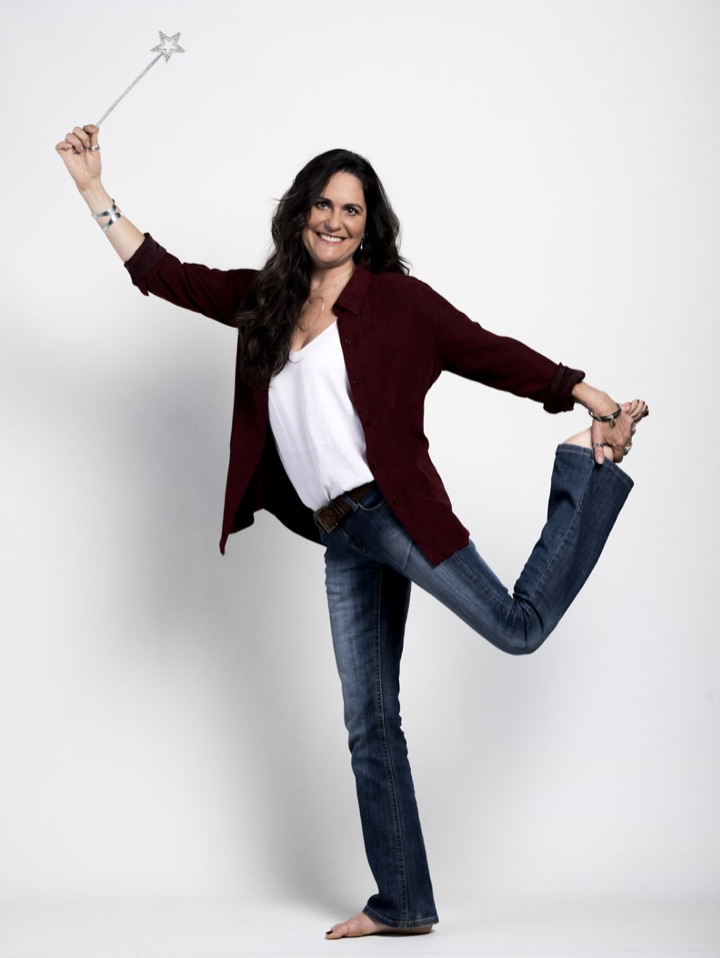
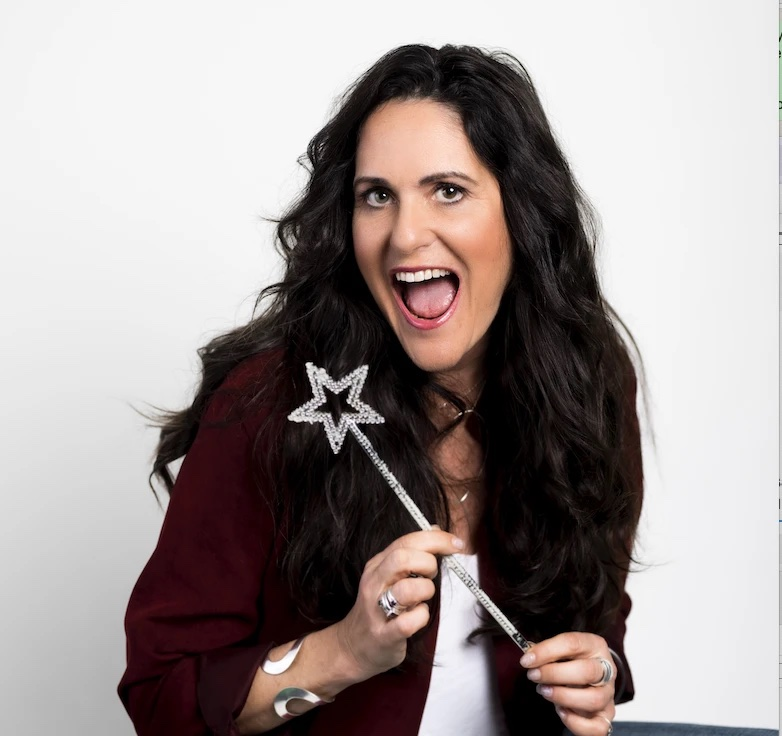
New wand headshot and redrawn silhouettes on the About page
Silhouettes now show distinct hair and face outlines: curly hair
(speaker, blue), short quiff (organiser, purple) and a high bun with
hoops (fund builder, green).

diff --git a/about.html b/about.html
@@ -58,7 +58,7 @@
         <div class="people">
           <article class="person person-founder">
             <div class="person-photo">
-              <img src="assets/img/julie-trell.jpg" alt="Julie Trell smiling, holding a star wand in the air and balancing on one leg" width="720" height="958" loading="lazy">
+              <img src="assets/img/julie-trell.jpg" alt="Julie Trell laughing and holding a sparkly star wand" width="782" height="736" loading="lazy">
             </div>
             <div class="person-body">
               <p class="person-role">Founder and chief wand-waver</p>
@@ -69,11 +69,24 @@
 
           <article class="person person-open person-speaker">
             <div class="person-photo" aria-hidden="true">
-              <!-- Woman with long hair -->
+              <!-- Woman with big curly hair -->
               <svg viewBox="0 0 300 400" focusable="false">
-                <path d="M150 62C82 62 72 120 76 175c3 40-6 70-14 105h176c-8-35-17-65-14-105 4-55-6-113-74-113z"/>
-                <circle cx="150" cy="135" r="60"/>
-                <path d="M126 188h48v52c58 12 94 52 98 160H28c4-108 40-148 98-160z"/>
+                <path d="M128 215h44v53c2 14 10 20 23 23 43 9 77 37 79 109H26c2-72 36-100 79-109 13-3 21-9 23-23z"/>
+                <g>
+                  <circle cx="150" cy="80" r="40"/>
+                  <circle cx="112" cy="90" r="36"/>
+                  <circle cx="188" cy="90" r="36"/>
+                  <circle cx="84" cy="122" r="34"/>
+                  <circle cx="216" cy="122" r="34"/>
+                  <circle cx="72" cy="160" r="32"/>
+                  <circle cx="228" cy="160" r="32"/>
+                  <circle cx="74" cy="198" r="30"/>
+                  <circle cx="226" cy="198" r="30"/>
+                  <circle cx="86" cy="232" r="26"/>
+                  <circle cx="214" cy="232" r="26"/>
+                </g>
+                <path d="M150 100c35 0 56 26 55 60-1 46-25 85-55 85s-54-39-55-85c-1-34 20-60 55-60z"/>
+                <path class="line" d="M95 160c-1-34 20-60 55-60s56 26 55 60c-1 46-25 85-55 85s-54-39-55-85z"/>
               </svg>
             </div>
             <div class="person-body">
@@ -86,11 +99,15 @@
 
           <article class="person person-open person-organisation">
             <div class="person-photo" aria-hidden="true">
-              <!-- Man with short hair -->
+              <!-- Man with a short quiff -->
               <svg viewBox="0 0 300 400" focusable="false">
-                <path d="M88 135c-2-50 27-67 62-67 38 0 66 20 62 67z"/>
-                <circle cx="150" cy="138" r="62"/>
-                <path d="M120 190h60v46c65 12 106 54 110 164H10c4-110 45-152 110-164z"/>
+                <path d="M124 215h52v53c2 14 10 20 25 23 46 9 81 37 83 109H16c2-72 37-100 83-109 15-3 23-9 25-23z"/>
+                <circle cx="94" cy="168" r="11"/>
+                <circle cx="206" cy="168" r="11"/>
+                <path d="M150 92c37 0 58 27 57 64-1 50-25 92-57 92s-56-42-57-92c-1-37 20-64 57-64z"/>
+                <path d="M92 150c-6-50 18-82 62-86 26-2 44 6 54 18 12 14 10 40 0 68-4-20-14-34-30-40-26 8-54 8-78 2-6 10-8 24-8 38z"/>
+                <path class="line" d="M100 112c24 6 52 6 78-2 16 6 26 20 30 40"/>
+                <path class="line" d="M93 156c1 50 25 92 57 92s56-42 57-92"/>
               </svg>
             </div>
             <div class="person-body">
@@ -103,11 +120,17 @@
 
           <article class="person person-open person-fund">
             <div class="person-photo" aria-hidden="true">
-              <!-- Woman with a bun -->
+              <!-- Woman with a high bun and hoop earrings -->
               <svg viewBox="0 0 300 400" focusable="false">
-                <circle cx="150" cy="64" r="30"/>
-                <circle cx="150" cy="140" r="60"/>
-                <path d="M126 192h48v50c58 12 94 50 98 158H28c4-108 40-146 98-158z"/>
+                <path d="M128 215h44v53c2 14 10 20 23 23 43 9 77 37 79 109H26c2-72 36-100 79-109 13-3 21-9 23-23z"/>
+                <circle cx="150" cy="58" r="30"/>
+                <path d="M150 96c35 0 56 26 55 62-1 48-25 87-55 87s-54-39-55-87c-1-36 20-62 55-62z"/>
+                <path d="M93 160c-4-48 18-78 57-78s61 30 57 78c-6-30-26-50-57-50s-51 20-57 50z"/>
+                <path class="line" d="M118 78c10-4 20-6 32-6s22 2 32 6"/>
+                <path class="line" d="M93 160c6-30 26-50 57-50s51 20 57 50"/>
+                <path class="line" d="M95 158c1 48 25 87 55 87s54-39 55-87"/>
+                <circle cx="96" cy="200" r="9" fill="none" stroke="currentColor" stroke-width="4" style="color: var(--theme)"/>
+                <circle cx="204" cy="200" r="9" fill="none" stroke="currentColor" stroke-width="4" style="color: var(--theme)"/>
               </svg>
             </div>
             <div class="person-body">

diff --git a/assets/css/styles.css b/assets/css/styles.css
@@ -705,16 +705,30 @@ strong {
   width: 100%;
   height: 100%;
   object-fit: cover;
+  object-position: 56% 40%;
+}
+
+.person-open {
+  --tint: var(--light);
+  --tint: color-mix(in srgb, var(--theme) 14%, var(--white));
 }
 
 .person-open .person-photo {
-  background: var(--light);
-  background: color-mix(in srgb, var(--theme) 14%, var(--white));
+  background: var(--tint);
 }
 
 .person-open svg {
-  width: 82%;
+  width: 88%;
   fill: var(--theme);
+}
+
+/* Thin lines in the background tint mark the face, hairline and jaw, so the hair reads. */
+.person-open svg .line {
+  fill: none;
+  stroke: var(--tint);
+  stroke-width: 3;
+  stroke-linecap: round;
+  stroke-linejoin: round;
 }
 
 .person-body {
